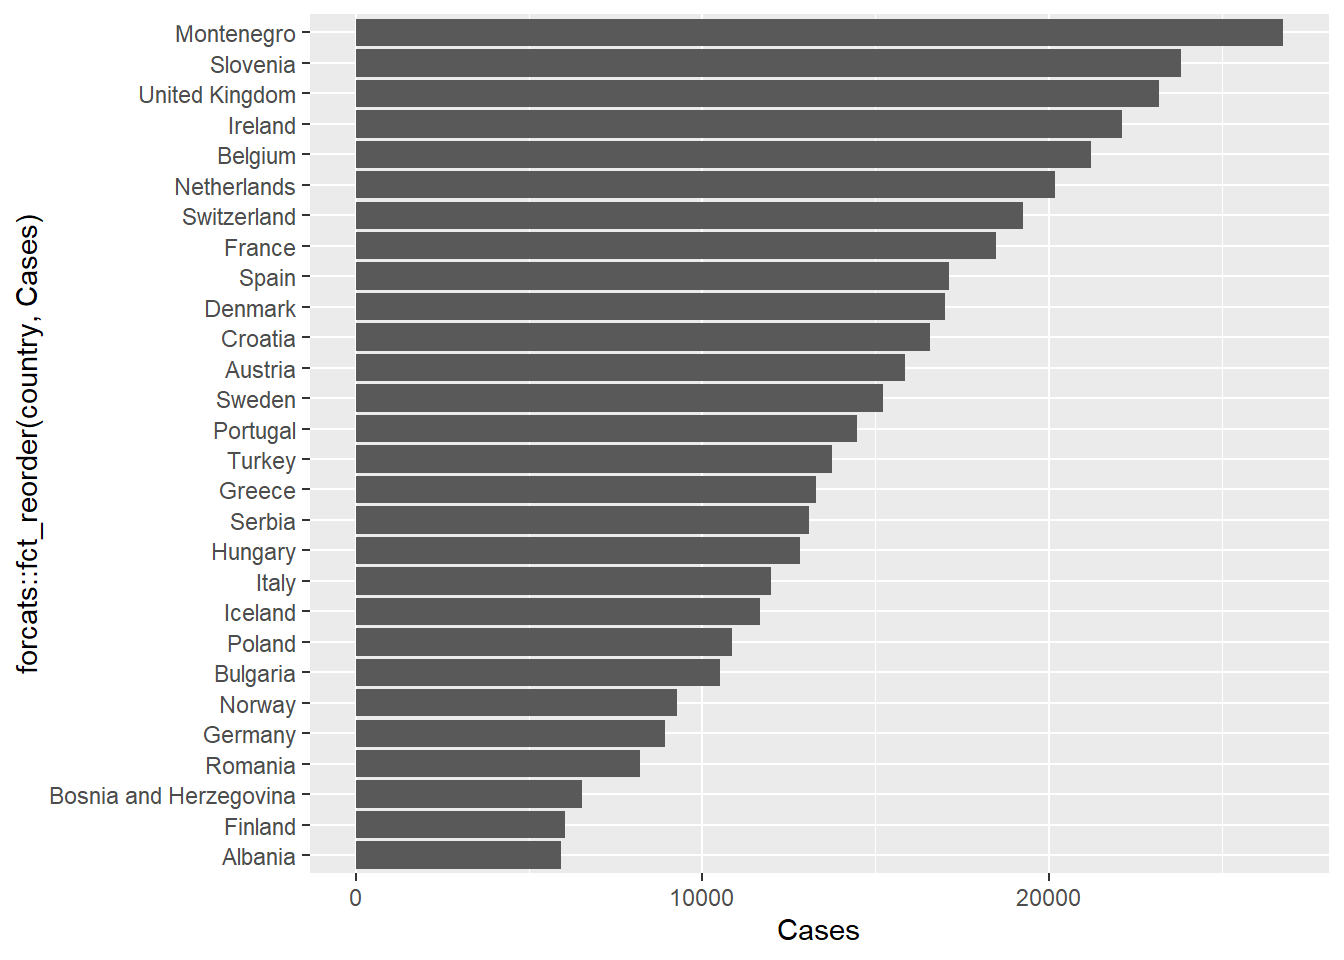
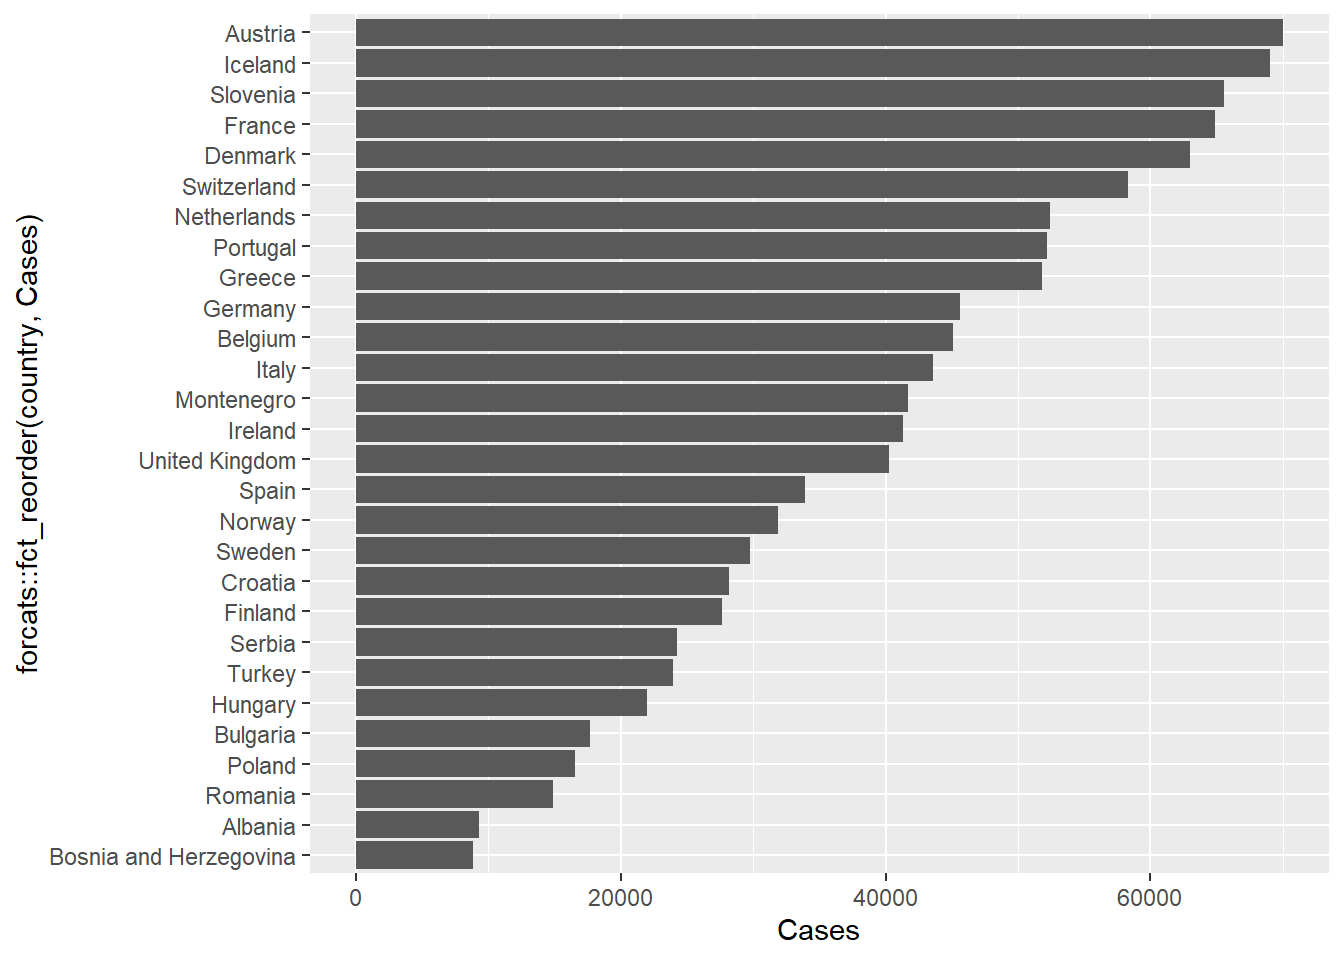
update covid figures for dates used on website

diff --git a/docs/training/r_part3/index.html b/docs/training/r_part3/index.html
@@ -1291,8 +1291,7 @@ Some solutions
 </div>
 <div id="callout-8" class="callout-8-contents callout-collapse collapse">
 <div class="callout-body-container callout-body">
-<p>Compare trajectories of different countries. The <code>%in%</code> operator is an alternative to or (<code>|</code>) to find a country name that can either one of a number of possibilities.</p>
-<p><strong>Something is going wrong with United Kingdom here that I need to investigate!</strong></p>
+<p>Compare trajectories of different countries. The <code>%in%</code> operator is an alternative to or (<code>|</code>) to find a country name that can have a number of possibilities.</p>
 <div class="cell">
 <div class="sourceCode cell-code" id="cb108"><pre class="sourceCode r code-with-copy"><code class="sourceCode r"><span id="cb108-1"><a href="#cb108-1" aria-hidden="true" tabindex="-1"></a>covid <span class="ot">&lt;-</span> <span class="fu">read_csv</span>(<span class="st">"raw_data/time_series_covid19_confirmed_global.csv"</span>) <span class="sc">%&gt;%</span> </span>
 <span id="cb108-2"><a href="#cb108-2" aria-hidden="true" tabindex="-1"></a>  <span class="fu">rename</span>(<span class="at">country =</span> <span class="st">`</span><span class="at">Country/Region</span><span class="st">`</span>) <span class="sc">%&gt;%</span> </span>
@@ -1321,10 +1320,11 @@ dbl (1145): Lat, Long, 1/22/20, 1/23/20, 1/24/20, 1/25/20, 1/26/20, 1/27/20,...
 </div>
 </div>
 </div>
+<p>To explore the european data on a particular date, we first filter gapminder appropriately</p>
 <div class="cell">
 <div class="sourceCode cell-code" id="cb111"><pre class="sourceCode r code-with-copy"><code class="sourceCode r"><span id="cb111-1"><a href="#cb111-1" aria-hidden="true" tabindex="-1"></a><span class="fu">filter</span>(gapminder, year <span class="sc">==</span> <span class="dv">2007</span>,continent<span class="sc">==</span><span class="st">"Europe"</span>) <span class="sc">%&gt;%</span></span>
 <span id="cb111-2"><a href="#cb111-2" aria-hidden="true" tabindex="-1"></a>  <span class="fu">left_join</span>(covid) <span class="sc">%&gt;%</span> </span>
-<span id="cb111-3"><a href="#cb111-3" aria-hidden="true" tabindex="-1"></a>  <span class="fu">filter</span>(Date <span class="sc">==</span> <span class="st">"2022-01-06"</span>) <span class="sc">%&gt;%</span> </span>
+<span id="cb111-3"><a href="#cb111-3" aria-hidden="true" tabindex="-1"></a>  <span class="fu">filter</span>(Date <span class="sc">==</span> <span class="st">"2023-01-13"</span>) <span class="sc">%&gt;%</span> </span>
 <span id="cb111-4"><a href="#cb111-4" aria-hidden="true" tabindex="-1"></a>  <span class="fu">mutate</span>(<span class="at">Cases =</span> <span class="fu">round</span>(Cases <span class="sc">/</span> (pop <span class="sc">/</span> <span class="fl">1e5</span>)))</span></code><button title="Copy to Clipboard" class="code-copy-button"><i class="bi"></i></button></pre></div>
 <div class="cell-output cell-output-stderr">
 <pre><code>Joining with `by = join_by(country)`</code></pre>
@@ -1333,16 +1333,16 @@ dbl (1145): Lat, Long, 1/22/20, 1/23/20, 1/24/20, 1/25/20, 1/26/20, 1/27/20,...
 <pre><code># A tibble: 28 × 8
    country             continent  year lifeExp    pop gdpPercap Date       Cases
    &lt;chr&gt;               &lt;chr&gt;     &lt;dbl&gt;   &lt;dbl&gt;  &lt;dbl&gt;     &lt;dbl&gt; &lt;date&gt;     &lt;dbl&gt;
- 1 Albania             Europe     2007    76.4 3.60e6     5937. 2022-01-06  5923
- 2 Austria             Europe     2007    79.8 8.20e6    36126. 2022-01-06 15865
- 3 Belgium             Europe     2007    79.4 1.04e7    33693. 2022-01-06 21237
- 4 Bosnia and Herzego… Europe     2007    74.9 4.55e6     7446. 2022-01-06  6532
- 5 Bulgaria            Europe     2007    73.0 7.32e6    10681. 2022-01-06 10515
- 6 Croatia             Europe     2007    75.7 4.49e6    14619. 2022-01-06 16592
- 7 Denmark             Europe     2007    78.3 5.47e6    35278. 2022-01-06 17001
- 8 Finland             Europe     2007    79.3 5.24e6    33207. 2022-01-06  6031
- 9 France              Europe     2007    80.7 6.11e7    30470. 2022-01-06 18483
-10 Germany             Europe     2007    79.4 8.24e7    32170. 2022-01-06  8934
+ 1 Albania             Europe     2007    76.4 3.60e6     5937. 2023-01-13  9277
+ 2 Austria             Europe     2007    79.8 8.20e6    36126. 2023-01-13 69987
+ 3 Belgium             Europe     2007    79.4 1.04e7    33693. 2023-01-13 45093
+ 4 Bosnia and Herzego… Europe     2007    74.9 4.55e6     7446. 2023-01-13  8813
+ 5 Bulgaria            Europe     2007    73.0 7.32e6    10681. 2023-01-13 17672
+ 6 Croatia             Europe     2007    75.7 4.49e6    14619. 2023-01-13 28181
+ 7 Denmark             Europe     2007    78.3 5.47e6    35278. 2023-01-13 62970
+ 8 Finland             Europe     2007    79.3 5.24e6    33207. 2023-01-13 27654
+ 9 France              Europe     2007    80.7 6.11e7    30470. 2023-01-13 64906
+10 Germany             Europe     2007    79.4 8.24e7    32170. 2023-01-13 45637
 # ℹ 18 more rows</code></pre>
 </div>
 </div>
@@ -1378,7 +1378,7 @@ dbl (1145): Lat, Long, 1/22/20, 1/23/20, 1/24/20, 1/25/20, 1/26/20, 1/27/20,...
 </div>
 <div class="sourceCode cell-code" id="cb118"><pre class="sourceCode r code-with-copy"><code class="sourceCode r"><span id="cb118-1"><a href="#cb118-1" aria-hidden="true" tabindex="-1"></a><span class="fu">filter</span>(gapminder, year <span class="sc">==</span> <span class="dv">2007</span>,continent<span class="sc">==</span><span class="st">"Europe"</span>) <span class="sc">%&gt;%</span> </span>
 <span id="cb118-2"><a href="#cb118-2" aria-hidden="true" tabindex="-1"></a>  <span class="fu">left_join</span>(covid) <span class="sc">%&gt;%</span> </span>
-<span id="cb118-3"><a href="#cb118-3" aria-hidden="true" tabindex="-1"></a>  <span class="fu">filter</span>(Date <span class="sc">==</span> <span class="st">"2022-01-06"</span>) <span class="sc">%&gt;%</span> </span>
+<span id="cb118-3"><a href="#cb118-3" aria-hidden="true" tabindex="-1"></a>  <span class="fu">filter</span>(Date <span class="sc">==</span> <span class="st">"2023-01-13"</span>) <span class="sc">%&gt;%</span> </span>
 <span id="cb118-4"><a href="#cb118-4" aria-hidden="true" tabindex="-1"></a>  <span class="fu">mutate</span>(<span class="at">Cases =</span> <span class="fu">round</span>(Cases <span class="sc">/</span> (pop <span class="sc">/</span> <span class="fl">1e5</span>))) <span class="sc">%&gt;%</span> </span>
 <span id="cb118-5"><a href="#cb118-5" aria-hidden="true" tabindex="-1"></a>  <span class="fu">ggplot</span>(<span class="fu">aes</span>(<span class="at">x =</span> Cases, <span class="at">y =</span> forcats<span class="sc">::</span><span class="fu">fct_reorder</span>(country,Cases))) <span class="sc">+</span> <span class="fu">geom_col</span>()</span></code><button title="Copy to Clipboard" class="code-copy-button"><i class="bi"></i></button></pre></div>
 <div class="cell-output cell-output-stderr">
@@ -1397,8 +1397,9 @@ dbl (1145): Lat, Long, 1/22/20, 1/23/20, 1/24/20, 1/25/20, 1/26/20, 1/27/20,...
 <div class="sourceCode cell-code" id="cb120"><pre class="sourceCode r code-with-copy"><code class="sourceCode r"><span id="cb120-1"><a href="#cb120-1" aria-hidden="true" tabindex="-1"></a><span class="do">### Get the 2007 gapminder data to avoid repeating data</span></span>
 <span id="cb120-2"><a href="#cb120-2" aria-hidden="true" tabindex="-1"></a><span class="fu">filter</span>(gapminder, year <span class="sc">==</span>  <span class="dv">2007</span>, continent<span class="sc">==</span><span class="st">"Europe"</span>) <span class="sc">%&gt;%</span> </span>
 <span id="cb120-3"><a href="#cb120-3" aria-hidden="true" tabindex="-1"></a>  <span class="fu">left_join</span>(covid) <span class="sc">%&gt;%</span> </span>
-<span id="cb120-4"><a href="#cb120-4" aria-hidden="true" tabindex="-1"></a>  <span class="fu">filter</span>(<span class="sc">!</span><span class="fu">is.na</span>(Cases)) <span class="sc">%&gt;%</span> <span class="do">## remove countries with missing values</span></span>
-<span id="cb120-5"><a href="#cb120-5" aria-hidden="true" tabindex="-1"></a>  <span class="fu">ggplot</span>(<span class="fu">aes</span>(<span class="at">x =</span> Date, <span class="at">y =</span> country,<span class="at">fill=</span>Cases)) <span class="sc">+</span> <span class="fu">geom_tile</span>()</span></code><button title="Copy to Clipboard" class="code-copy-button"><i class="bi"></i></button></pre></div>
+<span id="cb120-4"><a href="#cb120-4" aria-hidden="true" tabindex="-1"></a>  <span class="fu">filter</span>(<span class="sc">!</span><span class="fu">is.na</span>(Cases)) <span class="sc">%&gt;%</span> <span class="do">## remove countries with missing values%&gt;% </span></span>
+<span id="cb120-5"><a href="#cb120-5" aria-hidden="true" tabindex="-1"></a>  <span class="fu">mutate</span>(<span class="at">Cases =</span> <span class="fu">round</span>(Cases <span class="sc">/</span> (pop <span class="sc">/</span> <span class="fl">1e5</span>))) <span class="sc">%&gt;%</span> </span>
+<span id="cb120-6"><a href="#cb120-6" aria-hidden="true" tabindex="-1"></a>  <span class="fu">ggplot</span>(<span class="fu">aes</span>(<span class="at">x =</span> Date, <span class="at">y =</span> country,<span class="at">fill=</span>Cases)) <span class="sc">+</span> <span class="fu">geom_tile</span>() <span class="sc">+</span> <span class="fu">scale_fill_viridis_c</span>()</span></code><button title="Copy to Clipboard" class="code-copy-button"><i class="bi"></i></button></pre></div>
 <div class="cell-output cell-output-stderr">
 <pre><code>Joining with `by = join_by(country)`</code></pre>
 </div>

diff --git a/docs/training.html b/docs/training.html
@@ -259,7 +259,7 @@ Oct 16, 2025
 </div>
 </div></a>
 </div>
-<div class="g-col-1" data-index="2" data-listing-date-sort="1760569200000" data-listing-file-modified-sort="1760606891317" data-listing-date-modified-sort="NaN" data-listing-reading-time-sort="21" data-listing-word-count-sort="4092">
+<div class="g-col-1" data-index="2" data-listing-date-sort="1760569200000" data-listing-file-modified-sort="1760607327814" data-listing-date-modified-sort="NaN" data-listing-reading-time-sort="21" data-listing-word-count-sort="4104">
 <a href="./training/r_part3/index.html" class="quarto-grid-link">
 <div class="quarto-grid-item card h-100 card-left">
 <p class="card-img-top">
